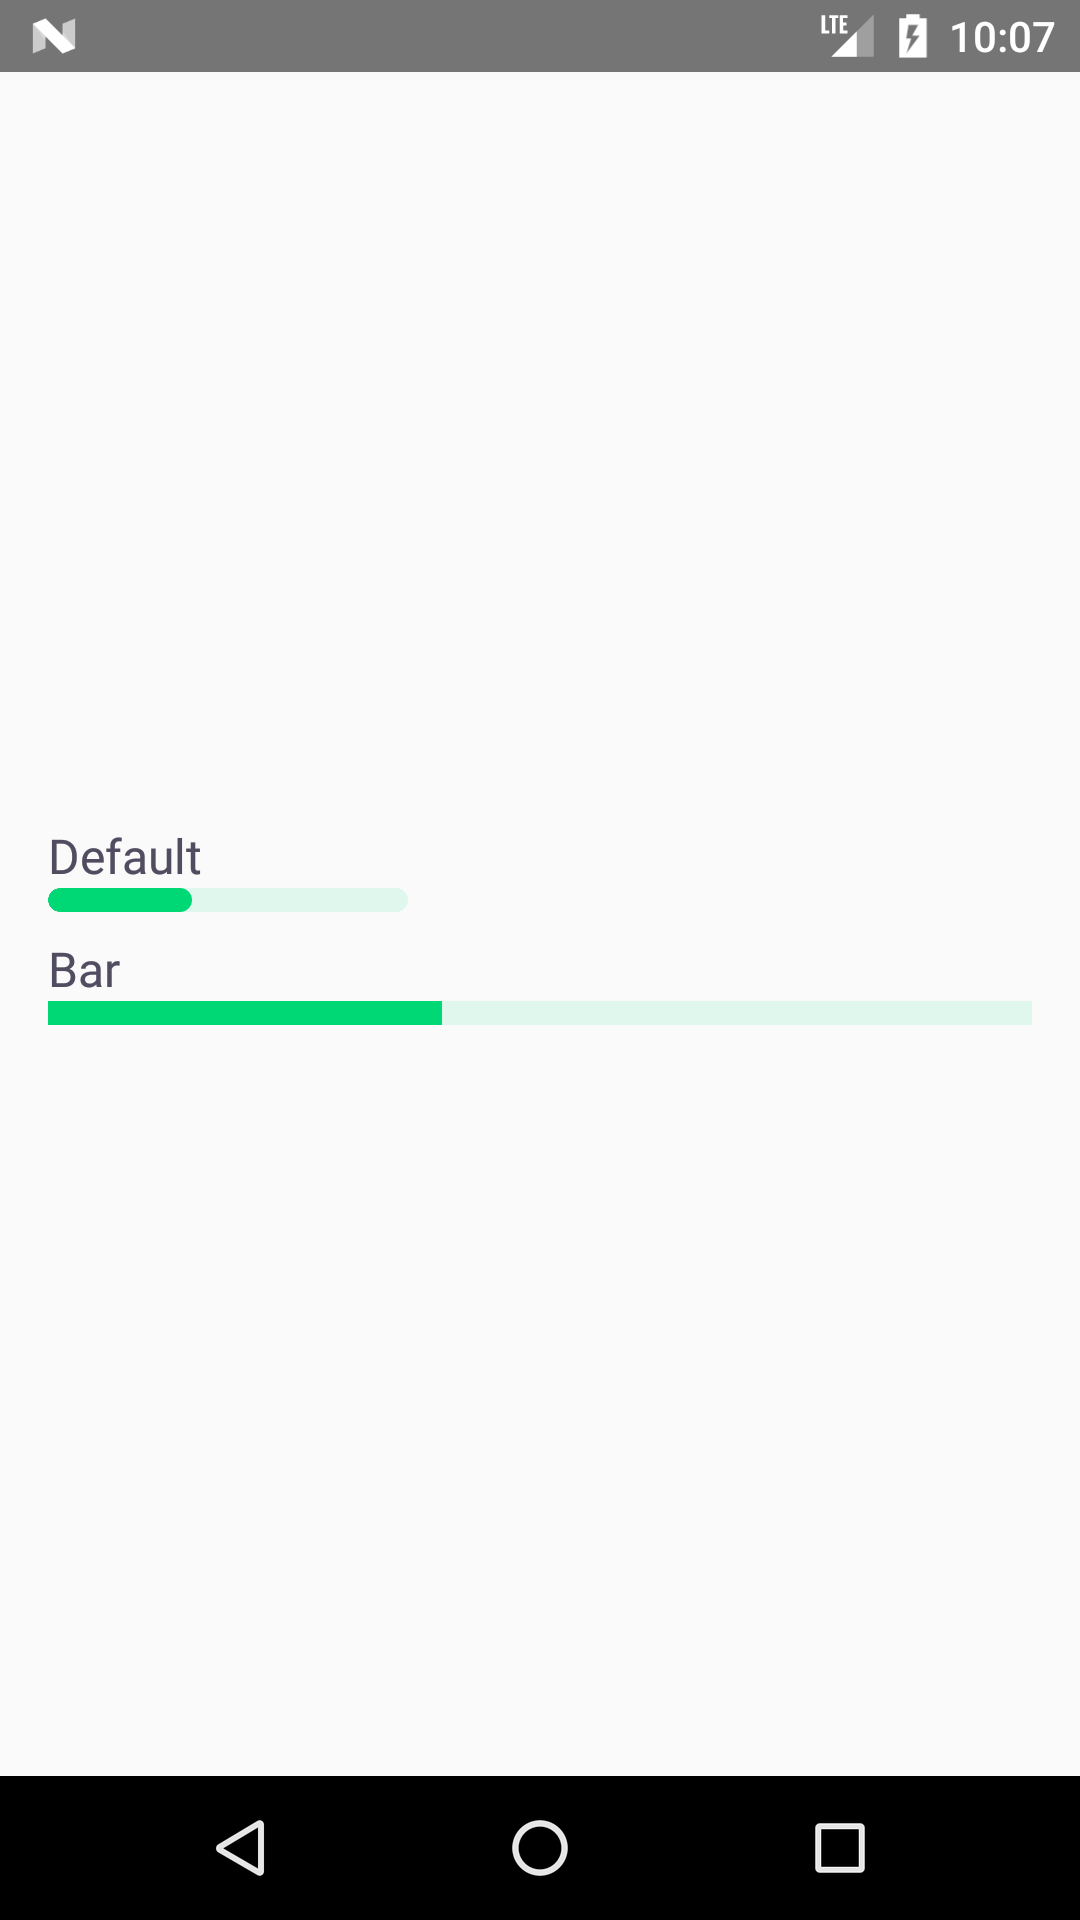
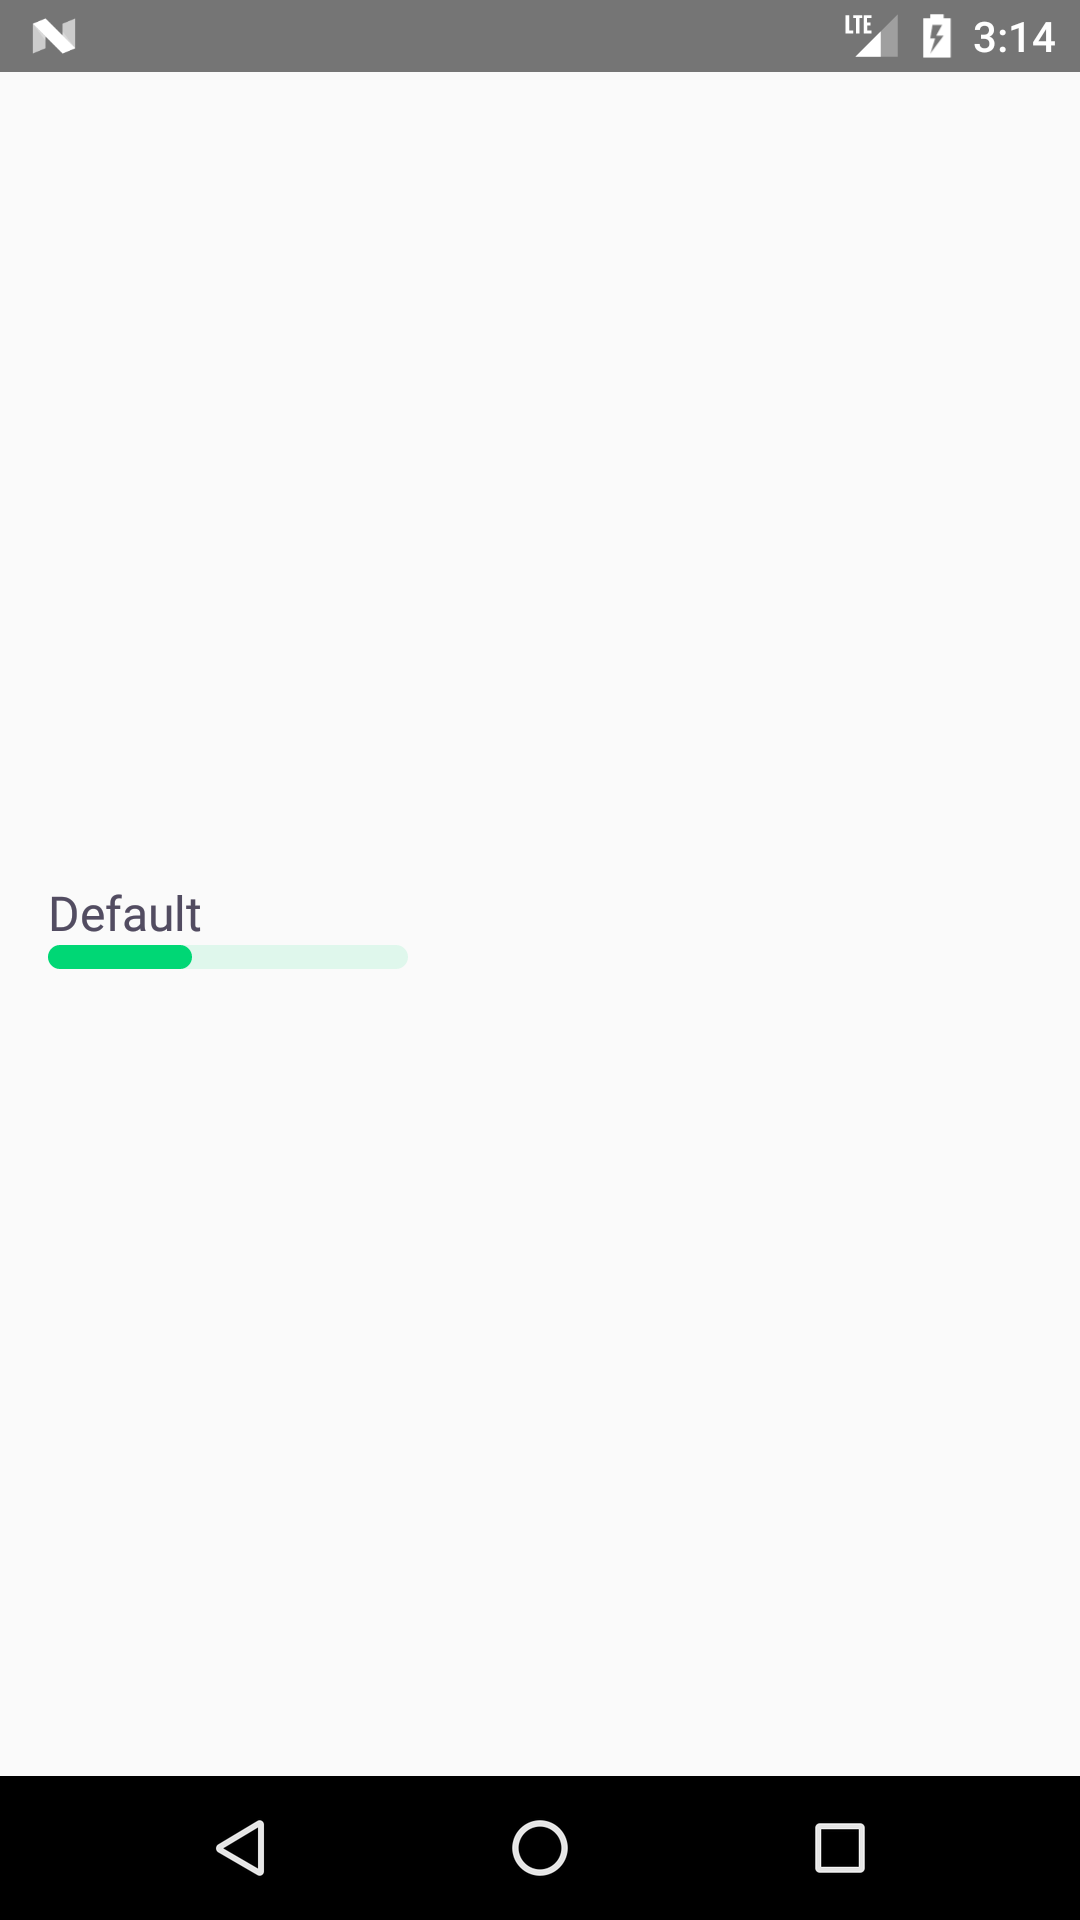
[BPK-1480] Add documentation for the native progress

Changed region(s): [[0.0306, 0.4375, 0.9472, 0.5312], [0.7639, 0.0, 0.9778, 0.0312]]

diff --git a/packages/bpk-docs/src/pages/NativeProgressPage/NativeProgressPage.js b/packages/bpk-docs/src/pages/NativeProgressPage/NativeProgressPage.js
@@ -1,0 +1,98 @@
+/*
+ * Backpack - Skyscanner's Design System
+ *
+ * Copyright 2018 Skyscanner Ltd
+ *
+ * Licensed under the Apache License, Version 2.0 (the "License");
+ * you may not use this file except in compliance with the License.
+ * You may obtain a copy of the License at
+ *
+ *   http://www.apache.org/licenses/LICENSE-2.0
+ *
+ * Unless required by applicable law or agreed to in writing, software
+ * distributed under the License is distributed on an "AS IS" BASIS,
+ * WITHOUT WARRANTIES OR CONDITIONS OF ANY KIND, either express or implied.
+ * See the License for the specific language governing permissions and
+ * limitations under the License.
+ */
+/* @flow */
+
+import React from 'react';
+import readme from 'react-native-bpk-component-progress/readme.md';
+
+import iosScreenshotDefault from 'react-native-bpk-component-progress/screenshots/ios/default.png';
+import androidScreenshotDefault from 'react-native-bpk-component-progress/screenshots/android/default.png';
+import iosScreenshotBar from 'react-native-bpk-component-progress/screenshots/ios/bar.png';
+import androidScreenshotBar from 'react-native-bpk-component-progress/screenshots/android/bar.png';
+
+import Paragraph from './../../components/Paragraph';
+import DocsPageBuilder from './../../components/DocsPageBuilder';
+
+const components = [
+  {
+    id: 'default',
+    title: 'Default',
+    blurb:
+      'The default progress bar is intended to be used as a stand alone component with margins all around.',
+    screenshots: [
+      {
+        title: 'iOS',
+        width: 750,
+        height: 1334,
+        src: `/${iosScreenshotDefault}`,
+        altText: 'iOS Progress Bar (Default)',
+        subText: '(iPhone 8 Simulator)',
+      },
+      {
+        title: 'Android',
+        width: 1080,
+        height: 1920,
+        src: `/${androidScreenshotDefault}`,
+        altText: 'Android Progress Bar (Default)',
+        subText: '(Google Pixel Emulator)',
+      },
+    ],
+  },
+  {
+    id: 'bar',
+    title: 'Bar',
+    blurb:
+      'The bar version of the progress bar has sharp corners and is intended to be connect to other areas of the UI, e.g at the top of the page and occupies the full width of its parent container.',
+    screenshots: [
+      {
+        title: 'iOS',
+        width: 750,
+        height: 1334,
+        src: `/${iosScreenshotBar}`,
+        altText: 'iOS Progress Bar (Bar)',
+        subText: '(iPhone 8 Simulator)',
+      },
+      {
+        title: 'Android',
+        width: 1080,
+        height: 1920,
+        src: `/${androidScreenshotBar}`,
+        altText: 'Android Progress Bar (Bar)',
+        subText: '(Google Pixel Emulator)',
+      },
+    ],
+  },
+];
+
+const NativeProgressPage = () => (
+  <DocsPageBuilder
+    title="Progress Bar"
+    blurb={[
+      <Paragraph>
+        Progress bars are a great way of providing feedback when a tasking is
+        running. Unlike spinners, they give the user a clear idea of how long
+        the given task will take.
+      </Paragraph>,
+    ]}
+    components={components}
+    readme={readme}
+    showMenu
+  />
+);
+
+export default NativeProgressPage;

diff --git a/native/packages/react-native-bpk-component-progress/stories.js b/native/packages/react-native-bpk-component-progress/stories.js
@@ -22,6 +22,7 @@ import { View, StyleSheet } from 'react-native';
 import { storiesOf } from '@storybook/react-native';
 import { spacingMd } from 'bpk-tokens/tokens/base.react.native';
 import BpkThemeProvider from 'react-native-bpk-theming';
+import capitalize from 'lodash/capitalize';
 import CenterDecorator from '../../storybook/CenterDecorator';
 import BpkButton from '../react-native-bpk-component-button';
 import BpkText from '../react-native-bpk-component-text';
@@ -53,35 +54,26 @@ class ProgressContainer extends Component {
   };
 
   render() {
-    const { steps, ...rest } = this.props;
+    const { steps, types, ...rest } = this.props;
 
     delete rest.initialValue;
 
     return (
       <View>
-        <View style={styles.barContainer}>
-          <BpkText>Default</BpkText>
-          <BpkProgress
-            min={0}
-            max={100}
-            value={this.state.progress}
-            accessibilityLabel={(min, max, value) =>
-              `${value} percent of ${max}`
-            }
-          />
-        </View>
-        <View style={styles.barContainer}>
-          <BpkText>Bar</BpkText>
-          <BpkProgress
-            min={0}
-            max={100}
-            value={this.state.progress}
-            type="bar"
-            accessibilityLabel={(min, max, value) =>
-              `${value} percent of ${max}`
-            }
-          />
-        </View>
+        {types.map(type => (
+          <View key={type} style={styles.barContainer}>
+            <BpkText>{capitalize(type)}</BpkText>
+            <BpkProgress
+              min={0}
+              max={100}
+              type={type}
+              value={this.state.progress}
+              accessibilityLabel={(min, max, value) =>
+                `${value} percent of ${max}`
+              }
+            />
+          </View>
+        ))}
         <View style={styles.steps}>
           {steps.map(step => (
             <BpkButton
@@ -101,16 +93,30 @@ class ProgressContainer extends Component {
 ProgressContainer.propTypes = {
   steps: PropTypes.arrayOf(PropTypes.number).isRequired,
   initialValue: PropTypes.number.isRequired,
+  types: PropTypes.arrayOf(PropTypes.string).isRequired,
 };
 
 storiesOf('react-native-bpk-component-progress', module)
   .addDecorator(CenterDecorator)
   .add('default', () => (
-    <ProgressContainer initialValue={40} steps={[0, 25, 50, 75, 100]} />
+    <ProgressContainer
+      initialValue={40}
+      steps={[0, 25, 50, 75, 100]}
+      types={['default', 'bar']}
+    />
   ))
-  .add('docs:default', () => <ProgressContainer initialValue={40} steps={[]} />)
   .add('theme:default', () => (
     <BpkThemeProvider theme={themeAttributes}>
-      <ProgressContainer initialValue={40} steps={[0, 25, 50, 75, 100]} />
+      <ProgressContainer
+        initialValue={40}
+        steps={[0, 25, 50, 75, 100]}
+        types={['default', 'bar']}
+      />
     </BpkThemeProvider>
+  ))
+  .add('docs:default', () => (
+    <ProgressContainer initialValue={40} steps={[]} types={['default']} />
+  ))
+  .add('docs:bar', () => (
+    <ProgressContainer initialValue={40} steps={[]} types={['bar']} />
   ));

diff --git a/packages/bpk-docs/src/routes/Routes.js b/packages/bpk-docs/src/routes/Routes.js
@@ -107,6 +107,7 @@ import NativePaginationDotsPage from './../pages/NativePaginationDotsPage';
 import NativePanelsPage from './../pages/NativePanelsPage';
 import NativePhoneInputPage from './../pages/NativePhoneInputPage';
 import NativePickerPage from './../pages/NativePickerPage';
+import NativeProgressPage from './../pages/NativeProgressPage';
 import NativeSpinnerPage from './../pages/NativeSpinnerPage';
 import NativeStarRatingPage from './../pages/NativeStarRatingPage';
 import NativeSwitchPage from './../pages/NativeSwitchPage';
@@ -281,6 +282,7 @@ const Routes = (
           component={NativePhoneInputPage}
         />
         <Route path={ROUTES.NATIVE_PICKER} component={NativePickerPage} />
+        <Route path={ROUTES.NATIVE_PROGRESS} component={NativeProgressPage} />
         <Route path={ROUTES.NATIVE_SPINNER} component={NativeSpinnerPage} />
         <Route
           path={ROUTES.NATIVE_STAR_RATING}

diff --git a/packages/bpk-docs/src/pages/NativeProgressPage/index.js b/packages/bpk-docs/src/pages/NativeProgressPage/index.js
@@ -1,0 +1,21 @@
+/*
+ * Backpack - Skyscanner's Design System
+ *
+ * Copyright 2018 Skyscanner Ltd
+ *
+ * Licensed under the Apache License, Version 2.0 (the "License");
+ * you may not use this file except in compliance with the License.
+ * You may obtain a copy of the License at
+ *
+ *   http://www.apache.org/licenses/LICENSE-2.0
+ *
+ * Unless required by applicable law or agreed to in writing, software
+ * distributed under the License is distributed on an "AS IS" BASIS,
+ * WITHOUT WARRANTIES OR CONDITIONS OF ANY KIND, either express or implied.
+ * See the License for the specific language governing permissions and
+ * limitations under the License.
+ */
+
+import page from './NativeProgressPage';
+
+export default page;

diff --git a/packages/bpk-docs/src/constants/routes.js b/packages/bpk-docs/src/constants/routes.js
@@ -97,6 +97,7 @@ export const NATIVE_PANELS = '/components/native/panels';
 export const NATIVE_PAGINATION_DOTS = '/components/native/pagination-dots';
 export const NATIVE_PHONE_INPUT = '/components/native/phone-input';
 export const NATIVE_PICKER = '/components/native/picker';
+export const NATIVE_PROGRESS = '/components/native/progress';
 export const NATIVE_SPINNER = '/components/native/spinners';
 export const NATIVE_STAR_RATING = '/components/native/star-rating';
 export const NATIVE_SWITCH = '/components/native/switches';

diff --git a/packages/bpk-docs/src/layouts/links.js b/packages/bpk-docs/src/layouts/links.js
@@ -168,6 +168,11 @@ export default [
         children: 'Pickers',
       },
       {
+        id: 'NATIVE_PROGRESS',
+        route: routes.NATIVE_PROGRESS,
+        children: 'Progress',
+      },
+      {
         id: 'NATIVE_SPINNER',
         route: routes.NATIVE_SPINNER,
         children: 'Spinners',
